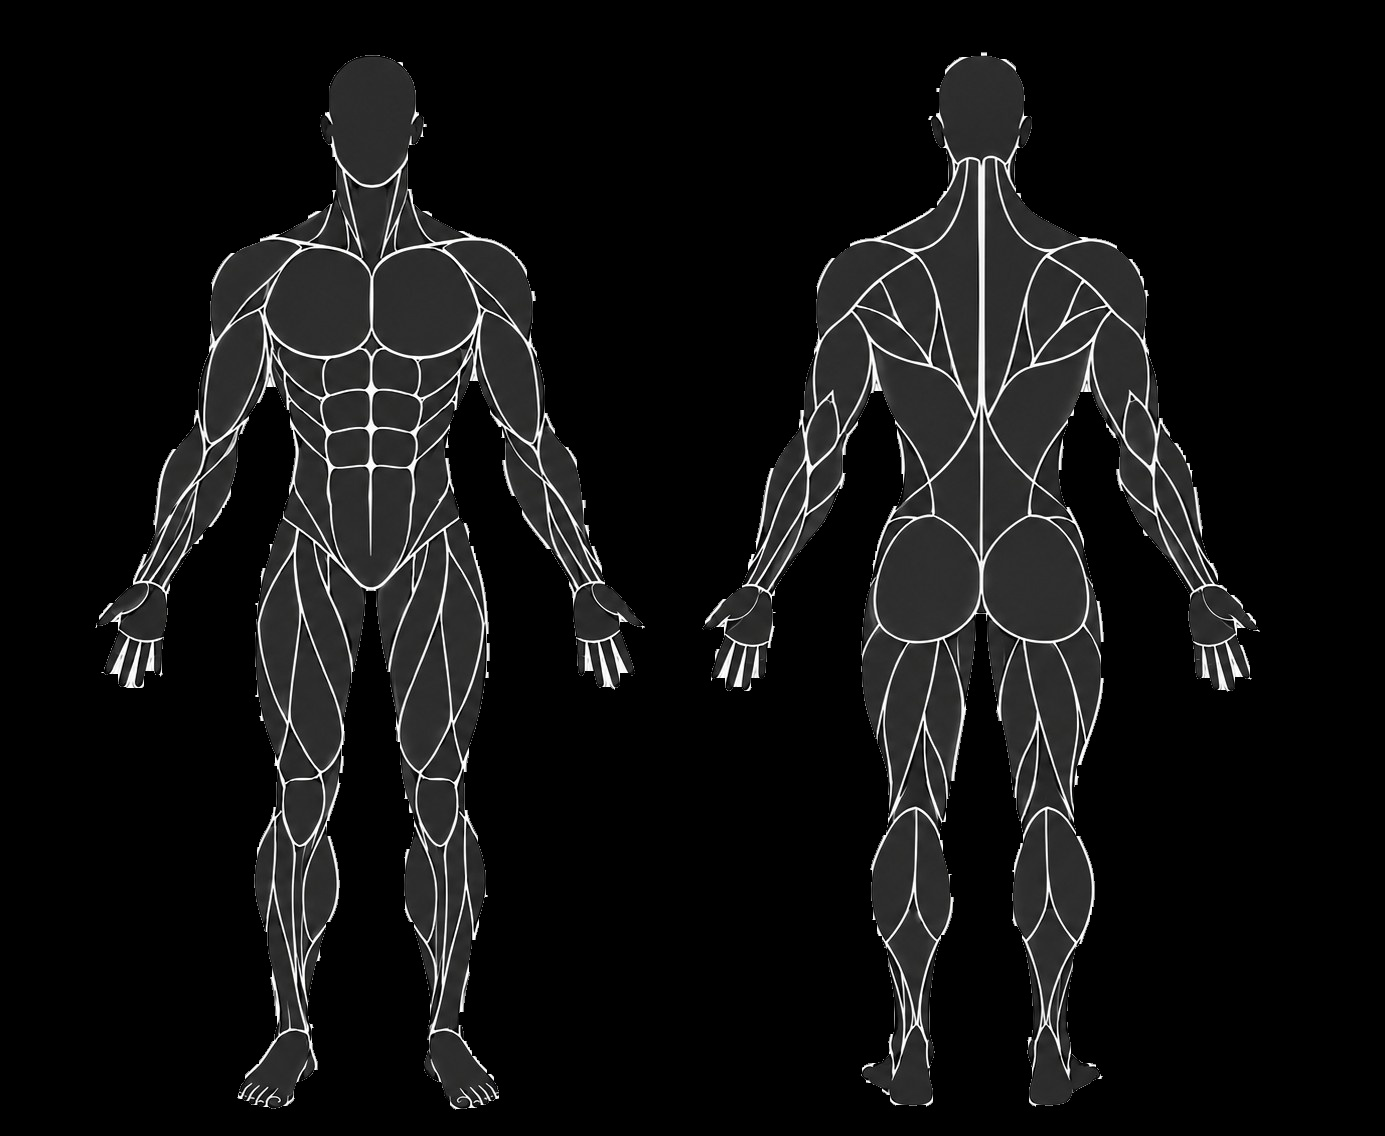
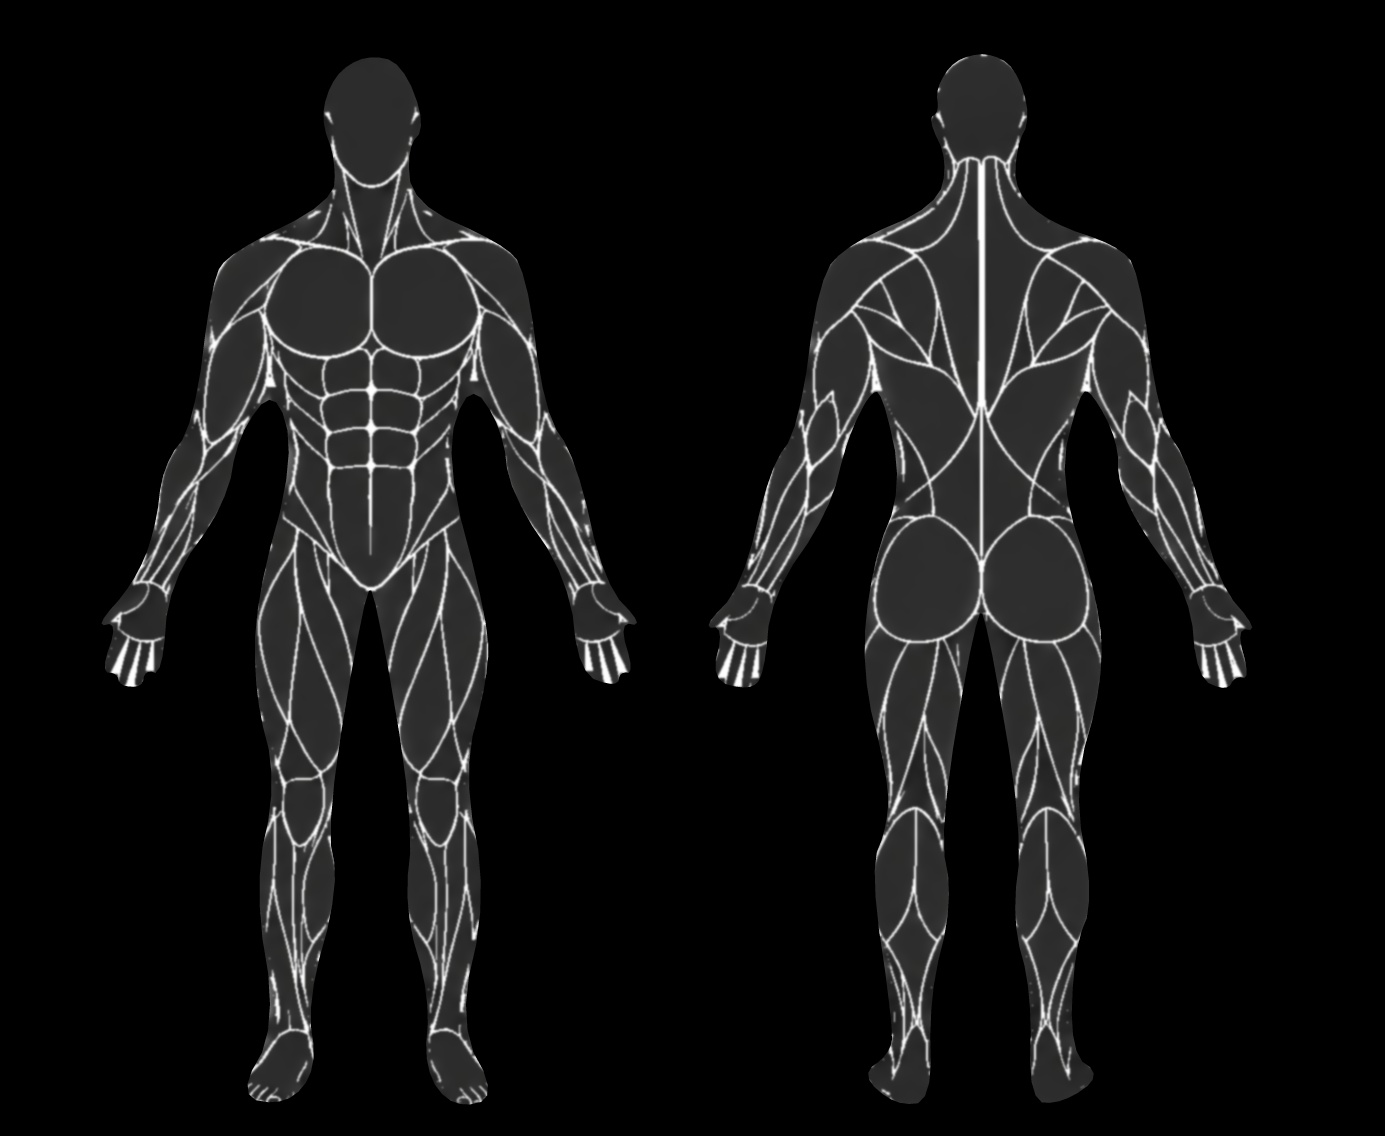
Add GIF posting to Community, retrace male diagram for a cleaner/smoother look, lock body-view to a dedicated onboarding gender question
Claude-Session: https://claude.ai/code/session_013z9TnwtDwjuCVfPDFvknpd

diff --git a/src/app/community/page.tsx b/src/app/community/page.tsx
@@ -16,7 +16,7 @@ import PinnedBadge from "@/components/PinnedBadge";
 import PostVideo from "@/components/PostVideo";
 import { RESERVED_DEV_COLOR } from "@/lib/nameColor";
 import { isLockedNow, isPinnedNow, sortForFeed } from "@/lib/pins";
-import { CameraIcon, CloseIcon, CommentIcon, HeartIcon, ShareIcon } from "@/components/icons";
+import { CameraIcon, CloseIcon, CommentIcon, GifIcon, HeartIcon, ShareIcon } from "@/components/icons";
 import type { AuthorInfo, CommunityPost } from "@/lib/types";
 
 export default function CommunityPage() {
@@ -58,6 +58,7 @@ export default function CommunityPage() {
   const [videoFile, setVideoFile] = useState<File | null>(null);
   const [videoPreview, setVideoPreview] = useState<string | null>(null);
   const videoInputRef = useRef<HTMLInputElement>(null);
+  const gifInputRef = useRef<HTMLInputElement>(null);
 
   async function load() {
     setLoading(true);
@@ -171,6 +172,27 @@ export default function CommunityPage() {
     if (videoInputRef.current) videoInputRef.current.value = "";
   }
 
+  // Matches the photo-moderation size cap server-side (MAX_IMAGE_BYTES in
+  // src/lib/moderate.ts) — a bigger file would just upload and then bounce
+  // back as "too large" during moderation, which is a confusing way to find
+  // out. Keeping the limits in sync means the error shows up immediately.
+  const MAX_GIF_BYTES = 5 * 1024 * 1024;
+
+  function pickGif(file: File) {
+    const isGif = file.type === "image/gif" || /\.gif$/i.test(file.name);
+    if (!isGif) {
+      setError("That file isn't a GIF.");
+      return;
+    }
+    if (file.size > MAX_GIF_BYTES) {
+      setError("GIFs can be up to 5 MB — trim or use a shorter one.");
+      return;
+    }
+    setError(null);
+    clearVideo();
+    pickPhoto(file);
+  }
+
   function clearPhoto() {
     setPhotoFile(null);
     setPhotoPreview(null);
@@ -186,10 +208,15 @@ export default function CommunityPage() {
     try {
       let photoUrl: string | null = null;
       if (photoFile) {
-        const blob = await compressImageForUpload(photoFile, 1600, 0.85);
-        const path = `${myUserId}/community/${Date.now()}.jpg`;
+        // GIFs go up as-is — recompressing through canvas (like a regular
+        // photo) would flatten them to their first frame and lose the
+        // animation, so this is the one picked-file path that skips it.
+        const isGif = photoFile.type === "image/gif" || /\.gif$/i.test(photoFile.name);
+        const blob = isGif ? photoFile : await compressImageForUpload(photoFile, 1600, 0.85);
+        const ext = isGif ? "gif" : "jpg";
+        const path = `${myUserId}/community/${Date.now()}.${ext}`;
         const { error: uploadError } = await supabase.storage.from("profile-media").upload(path, blob, {
-          contentType: "image/jpeg",
+          contentType: isGif ? "image/gif" : "image/jpeg",
         });
         if (uploadError) {
           setError(uploadError.message);
@@ -396,6 +423,20 @@ export default function CommunityPage() {
                         clearVideo();
                         pickPhoto(e.target.files[0]);
                       }
+                    }}
+                  />
+                </label>
+                <label className="flex cursor-pointer items-center gap-1.5 rounded-full px-2 py-1 text-xs font-medium text-zinc-500 active:bg-zinc-800">
+                  <GifIcon className="h-4 w-4" />
+                  GIF
+                  <input
+                    ref={gifInputRef}
+                    type="file"
+                    accept="image/gif"
+                    className="hidden"
+                    onChange={(e) => {
+                      if (e.target.files?.[0]) pickGif(e.target.files[0]);
+                      if (gifInputRef.current) gifInputRef.current.value = "";
                     }}
                   />
                 </label>

diff --git a/src/app/onboarding/page.tsx b/src/app/onboarding/page.tsx
@@ -33,7 +33,7 @@ export default function OnboardingPage() {
   // all key off it), so it runs FIRST, ahead of the goal-setting steps
   // below. checkingUsername starts true so we don't flash the goal flow
   // for a split second before we know whether a username is already set.
-  const [step, setStep] = useState<"username" | "intro" | "targets">("username");
+  const [step, setStep] = useState<"username" | "intro" | "gender" | "targets">("username");
   const [checkingUsername, setCheckingUsername] = useState(true);
   const [usernameInput, setUsernameInput] = useState("");
   const [savingUsername, setSavingUsername] = useState(false);
@@ -42,7 +42,7 @@ export default function OnboardingPage() {
 
   const [weight, setWeight] = useState(140);
   const [height, setHeight] = useState(72);
-  const [sex, setSex] = useState<"male" | "female">("male");
+  const [sex, setSex] = useState<"male" | "female" | null>(null);
   const [phase, setPhase] = useState<GoalPhase>("bulk");
   const [weeklyRate, setWeeklyRate] = useState(0.75);
   const [saving, setSaving] = useState(false);
@@ -157,7 +157,7 @@ export default function OnboardingPage() {
       current_weight_lb: weight,
       height_in: height,
       weekly_rate_lb: weeklyRate,
-      sex,
+      sex: sex ?? "male",
     });
     setSaving(false);
     if (error) {
@@ -224,8 +224,44 @@ export default function OnboardingPage() {
         </div>
 
         <button
-          onClick={() => setStep("targets")}
+          onClick={() => setStep("gender")}
           disabled={!selectedGoal}
+          className="mt-8 w-full rounded-xl bg-emerald-500 py-3 font-semibold text-black disabled:opacity-40"
+        >
+          Continue
+        </button>
+      </div>
+    );
+  }
+
+  if (step === "gender") {
+    return (
+      <div className="mx-auto flex min-h-dvh max-w-md flex-col justify-center px-6 py-10">
+        <h1 className="text-2xl font-bold">What&apos;s your gender?</h1>
+        <p className="mt-1 text-sm text-zinc-400">
+          This locks in which body diagram you&apos;ll see on the Fitness tab and how your strength
+          ranks are compared — you can change it later from Settings → Edit goals.
+        </p>
+
+        <div className="mt-8 grid grid-cols-2 gap-3">
+          {(["male", "female"] as const).map((s) => (
+            <button
+              key={s}
+              onClick={() => setSex(s)}
+              className={`rounded-2xl border py-6 text-sm font-semibold capitalize transition ${
+                sex === s
+                  ? "border-emerald-500 bg-emerald-500/10 text-emerald-300"
+                  : "border-zinc-800 bg-zinc-900 text-zinc-300 active:scale-[0.98]"
+              }`}
+            >
+              {s}
+            </button>
+          ))}
+        </div>
+
+        <button
+          onClick={() => setStep("targets")}
+          disabled={!sex}
           className="mt-8 w-full rounded-xl bg-emerald-500 py-3 font-semibold text-black disabled:opacity-40"
         >
           Continue

diff --git a/src/app/fitness/page.tsx b/src/app/fitness/page.tsx
@@ -390,26 +390,7 @@ export default function FitnessPage() {
         🏋 My lifts — edit or delete
       </button>
 
-      <div className="mt-6 flex gap-1 rounded-full bg-zinc-900 p-1">
-        <button
-          onClick={() => setSex("male")}
-          className={`flex-1 rounded-full py-2 text-sm font-semibold ${
-            sex === "male" ? "bg-emerald-500 text-black" : "text-zinc-400"
-          }`}
-        >
-          Man
-        </button>
-        <button
-          onClick={() => setSex("female")}
-          className={`flex-1 rounded-full py-2 text-sm font-semibold ${
-            sex === "female" ? "bg-emerald-500 text-black" : "text-zinc-400"
-          }`}
-        >
-          Woman
-        </button>
-      </div>
-
-      <p className="mt-4 text-xs text-[#71717a]">
+      <p className="mt-6 text-xs text-[#71717a]">
         Each muscle is colored by its own rank, from your logged lifts relative to your bodyweight. Tap a muscle for details.
       </p>
       <MuscleMapOverlay sex={sex} ranks={ranksByMuscle} onSelect={(m) => setSelectedMuscle(m === selectedMuscle ? null : m)} />

diff --git a/src/components/icons.tsx b/src/components/icons.tsx
@@ -60,6 +60,17 @@ export function CloseIcon({ className }: { className?: string }) {
   );
 }
 
+export function GifIcon({ className }: { className?: string }) {
+  return (
+    <svg viewBox="0 0 24 24" fill="none" stroke="currentColor" strokeWidth={1.6} className={className}>
+      <rect x="2.5" y="6" width="19" height="12" rx="3" />
+      <text x="12" y="14.7" textAnchor="middle" fontSize="7.2" fontWeight="800" fill="currentColor" stroke="none" fontFamily="sans-serif">
+        GIF
+      </text>
+    </svg>
+  );
+}
+
 export function SendIcon({ className }: { className?: string }) {
   return (
     <svg viewBox="0 0 24 24" fill="none" stroke="currentColor" strokeWidth={1.8} className={className}>
